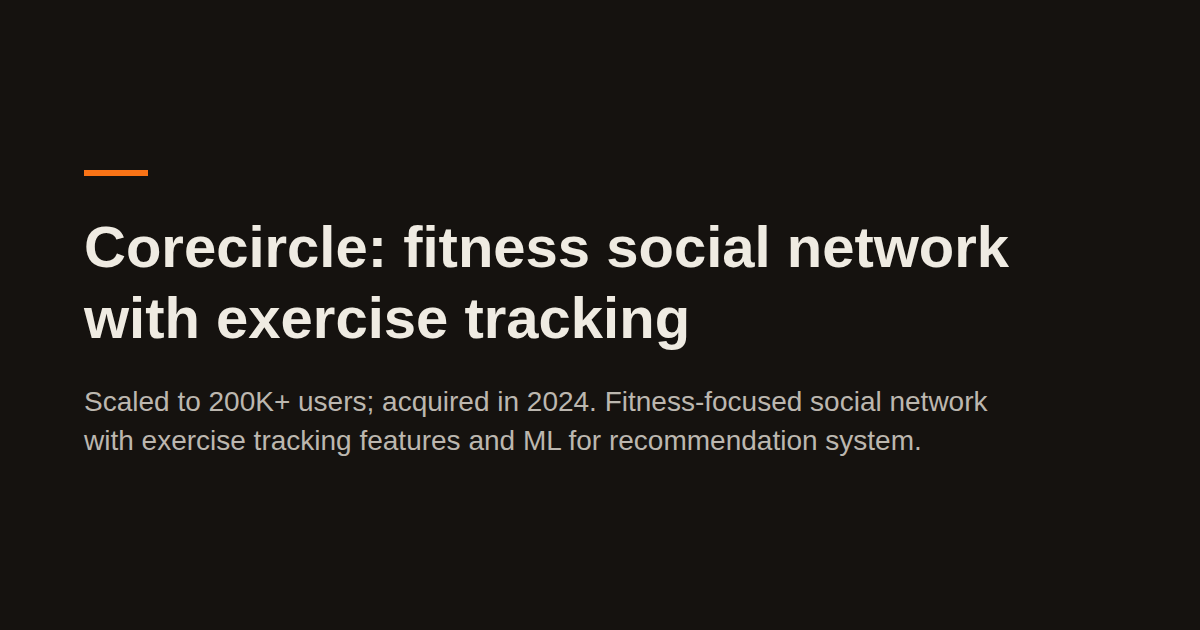
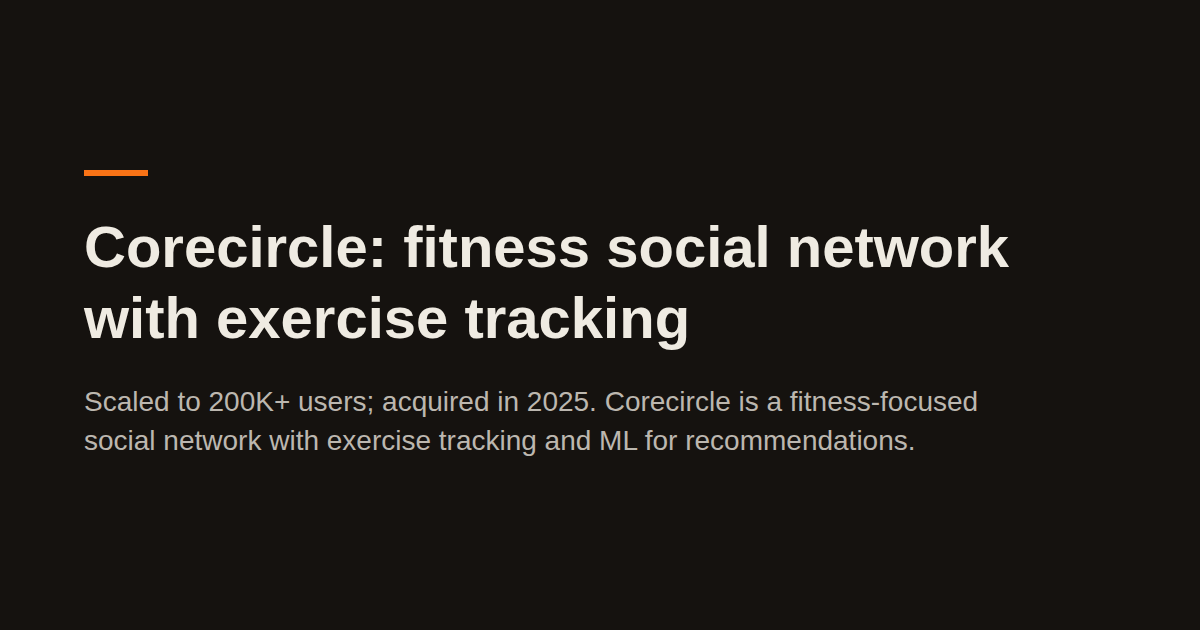
fix(work): Corecircle was acquired in 2025 (#711)

Changed region(s): [[0.0617, 0.6032, 0.8325, 0.7238]]

diff --git a/lib/notes.ts b/lib/notes.ts
@@ -35,7 +35,7 @@ export const notes: Note[] = [
   {
     id: "corecircle-users",
     text:
-      "The founder said 200K users in her June 2022 interview. The 2024 acquisition comes from the client's internal project data.",
+      "The founder said 200K users in her June 2022 interview. The founder told me about the acquisition in April 2025.",
     href:
       "https://foundersfeature.substack.com/p/founders-feature-054-corecircle",
   },

diff --git a/lib/data.ts b/lib/data.ts
@@ -285,7 +285,7 @@ export const projects = {
       madeForName: "Nastassia Ponomarenko",
       madeForURL: "https://www.linkedin.com/in/nastassia-ponomarenko/",
       period: { from: 2021 },
-      outcome: "Scaled to 200K+ users; acquired in 2024",
+      outcome: "Scaled to 200K+ users; acquired in 2025",
       outcomeNote: "corecircle-users",
     },
     {
